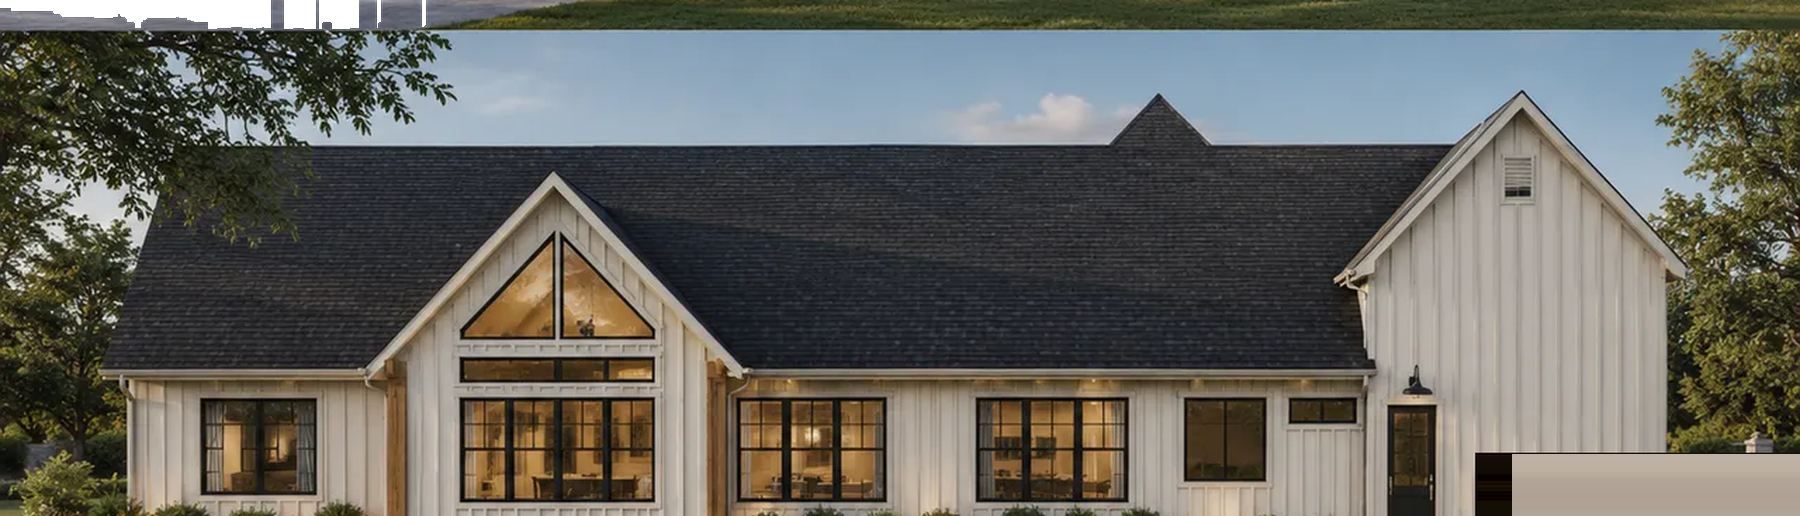
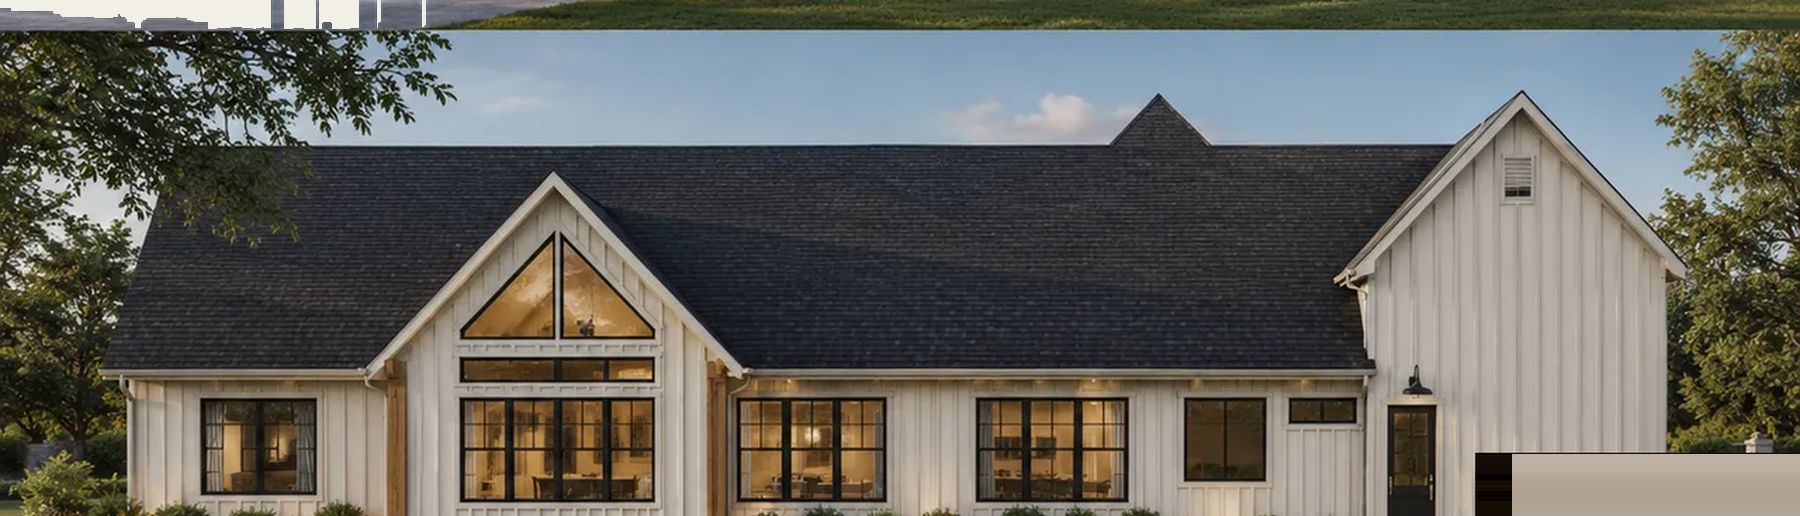
Make Whitestone elevations opaque to stop orbit ghosting
Composite front/rear photos onto siding-colored backs so sky cutouts
cannot show through, and park the faces just outside the massing walls.

Changed region(s): [[0.0, 0.0, 0.2178, 0.062]]

diff --git a/src/components/lotVisualizer/whitestoneHouse.ts b/src/components/lotVisualizer/whitestoneHouse.ts
@@ -12,8 +12,8 @@ import { FT_TO_M } from './geo'
 const W_FT = 94
 const D_FT = 58
 
-export const WHITESTONE_FRONT_SKIN = '/plans/refs/whitestone-front.png?v=mass1'
-export const WHITESTONE_REAR_SKIN = '/plans/refs/whitestone-rear.png?v=mass1'
+export const WHITESTONE_FRONT_SKIN = '/plans/refs/whitestone-front.png?v=mass2'
+export const WHITESTONE_REAR_SKIN = '/plans/refs/whitestone-rear.png?v=mass2'
 
 const SIDING = 0xf2efe6
 const ROOF = 0x2a2a28
@@ -117,29 +117,29 @@ export function buildWhitestoneHouse(): THREE.Group {
   const elevH = garageH + roofRise * 0.55
   house.userData.facadeHeightM = elevH
 
-  // Front elevation face — flush with street face of the garage mass (−z)
+  // Elevation faces sit a hair outside the massing to avoid z-fighting with
+  // the box walls they cover. Photos are opaque (no see-through sky holes).
   const frontFace = makeElevationFace('streetFacade', W, elevH, true)
-  frontFace.position.set(0, elevH / 2, -D / 2)
+  frontFace.position.set(0, elevH / 2, -D / 2 - 0.03)
   house.add(frontFace)
 
-  // Rear elevation face — flush with rear of the living mass (+z)
   const rearFace = makeElevationFace('rearFacade', W, elevH, false)
-  rearFace.position.set(0, elevH / 2, D / 2)
+  rearFace.position.set(0, elevH / 2, D / 2 + 0.03)
   house.add(rearFace)
 
-  // Driveway tip — center of left garage wing, exactly on the street face
+  // Driveway tip — center of left garage wing at the street elevation face
   const approach = new THREE.Object3D()
   approach.name = 'garageApproach'
-  approach.position.set(garageX, 0, -D / 2)
+  approach.position.set(garageX, 0, -D / 2 - 0.03)
   house.add(approach)
 
   // Thin threshold slab under the garage doors — driveway meets this flush
   const threshold = new THREE.Mesh(
-    new THREE.BoxGeometry(garageW * 0.95, 0.06, 0.9),
+    new THREE.BoxGeometry(garageW * 0.92, 0.05, 0.7),
     mat(0xc8c6be, 0.95)
   )
   threshold.name = 'garageThreshold'
-  threshold.position.set(garageX, 0.03, -D / 2 - 0.35)
+  threshold.position.set(garageX, 0.025, -D / 2 - 0.38)
   house.add(threshold)
 
   house.traverse((o) => {
@@ -215,9 +215,9 @@ export function applyWhitestoneSkins(
     m.map?.dispose()
     m.map = tex
     m.color.set(0xffffff)
-    m.transparent = true
-    // Hard cut — no soft halo / fringe at the foundation
-    m.alphaTest = 0.5
+    // Opaque elevations — no ghosting through sky cutouts when orbiting
+    m.transparent = false
+    m.alphaTest = 0
     m.depthWrite = true
     m.needsUpdate = true
 
